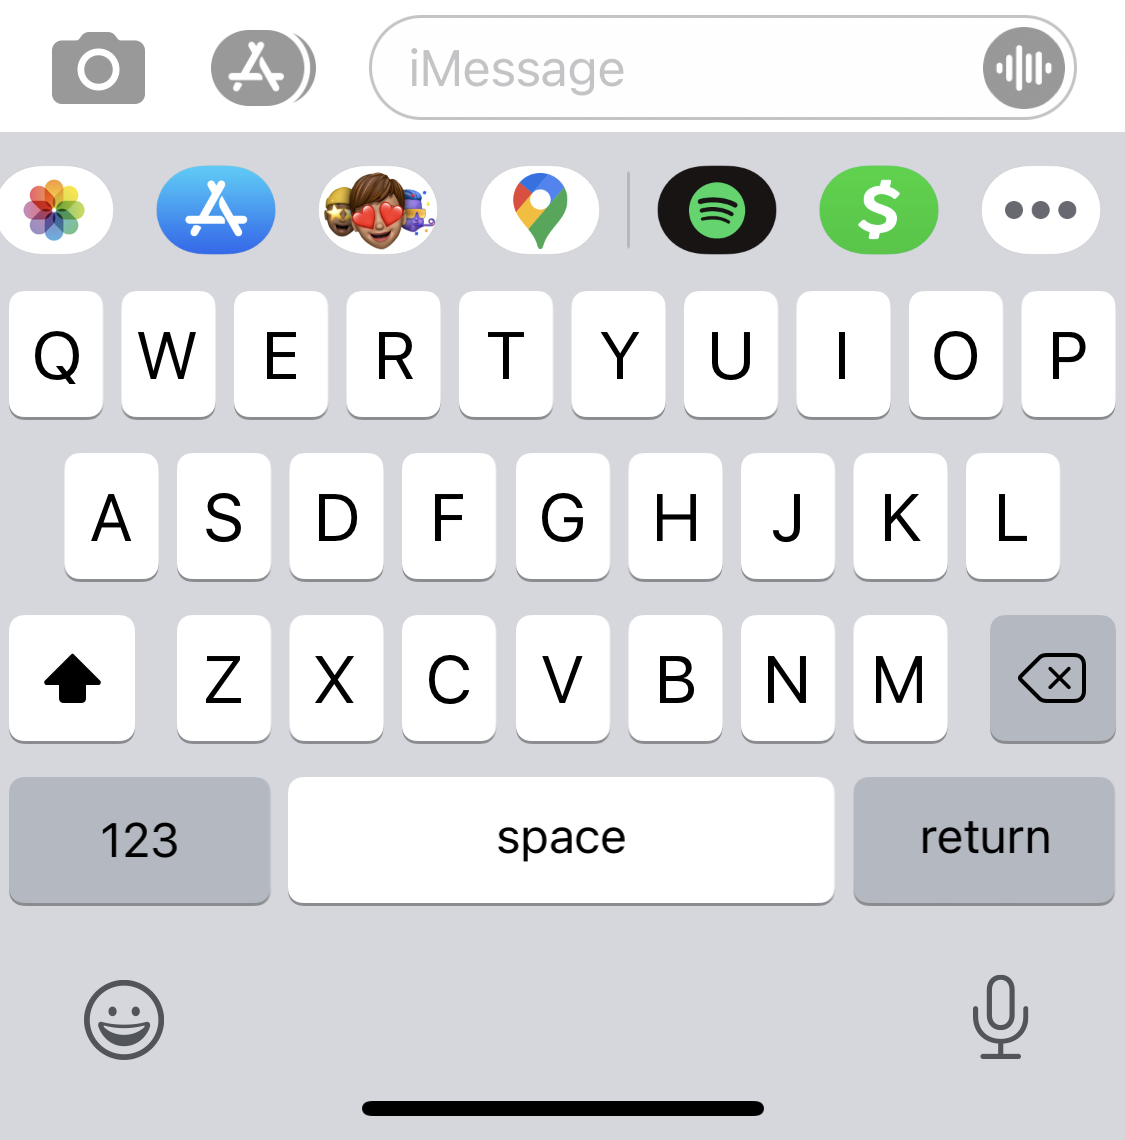
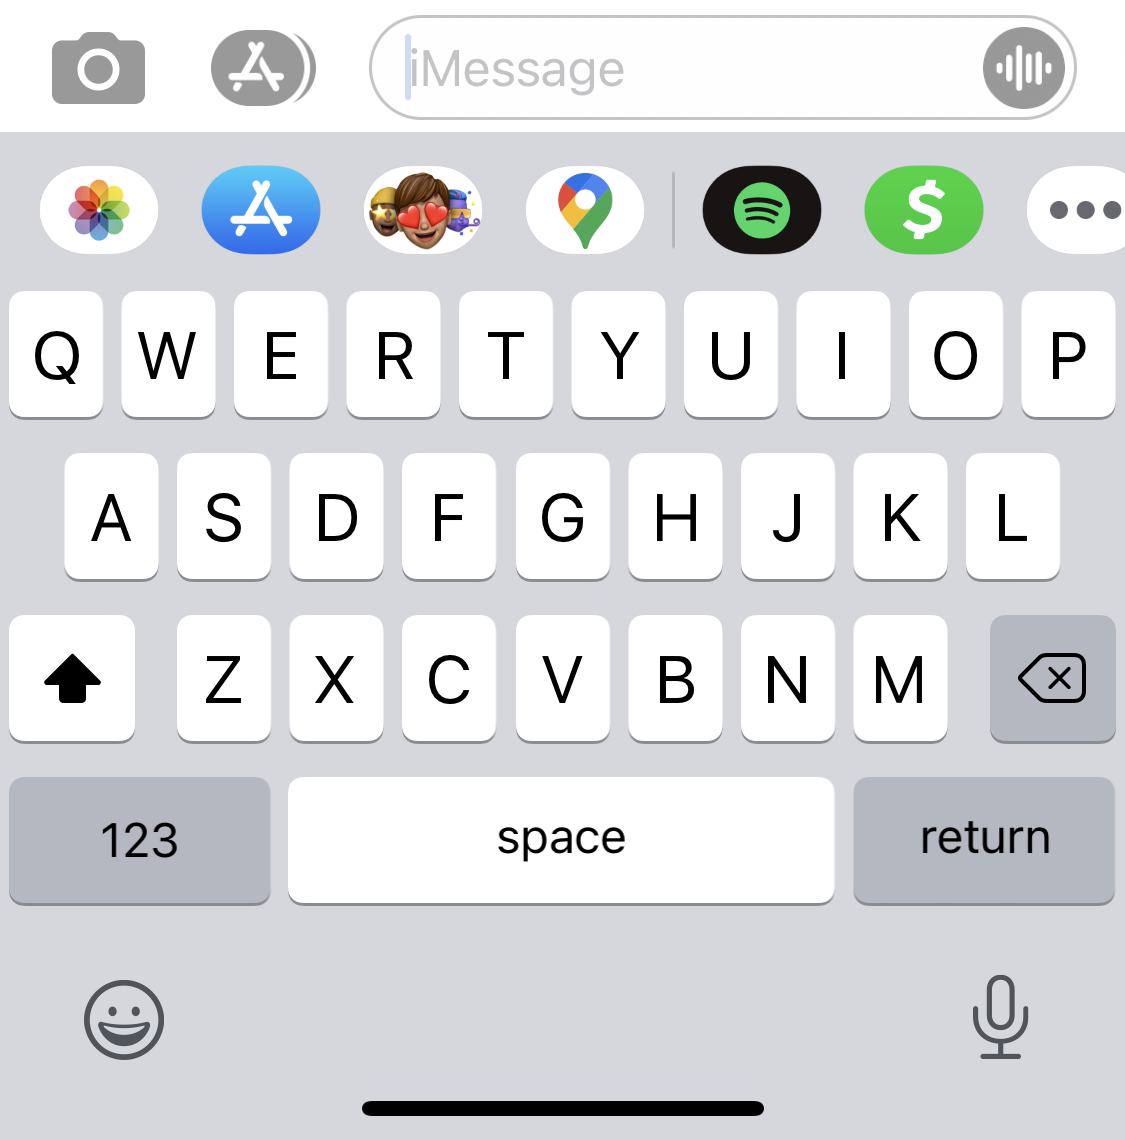
wip typing anim

Changed region(s): [[0.0, 0.1228, 1.0, 0.2456], [0.3422, 0.0307, 0.3733, 0.0921]]

diff --git a/src/Conversation/Conversation.js b/src/Conversation/Conversation.js
@@ -8,8 +8,7 @@ import celebrityQuotes from '../celebrityQuotes'
 
 function Conversation(props) {
 
-  console.log('test')
-  console.log(celebrityQuotes)
+  console.log('component refreshes');
 
   let [voices, setVoices] = useState([]);
   let [convo, setConvo] = useState([]);
@@ -20,13 +19,16 @@ function Conversation(props) {
   let [canClickSend, setCanClickSend] = useState(true);
   let [audioLength, setAudioLength] = useState(2000)
   let [currentSpeaker, setCurrentSpeaker] = useState('donald-trump')
-  let [name, setName] = useState('Hunter')
+  let [name, setName] = useState('Hunter');
+  let [kImg, setKImg] = useState(1);
+  let [randomType, setRandomType] = useState(Math.floor((Math.random() * 100) + 50));
+  let [firstReady, setFirstReady] = useState(false);
 
   let scrollDiv = document.querySelector('#msg-scroll');
 
   // let [time, setTime] = useState(today.getHours() + ":" + today.getMinutes())
 
-  // Speech To Text
+  let keyboardType;
 
 
   useEffect(() => {
@@ -150,11 +152,58 @@ function Conversation(props) {
   }
 
   async function handleMessages() {
+    setFirstReady(false)
     setCanClickSend(false)
+
+    // function typing() {
+    //   if (!firstReady) {
+    //     setTimeout(() => {
+    //       //setRandomType(Math.floor((Math.random() * 100) + 50));
+    //
+    //       typingClick.currentTime = 0;
+    //       //TODO: deleteClick.currentTime = 0
+    //       if (kImg > 27) {
+    //         //TODO: deleteClick.play()
+    //       } else {
+    //         if (kImg % 2 === 0 ) {
+    //           typingClick.play();
+    //           console.log('click: ', kImg, randomType);
+    //         }
+    //       }
+    //       kImg > 37 ? setKImg(1) : setKImg(++kImg);
+    //
+    //     }, 100)
+    //
+    //     typing();
+    //   }
+    // }
+    // typing();
+
+    keyboardType = setInterval(() => {
+
+      typingClick.currentTime = 0;
+      //TODO: deleteClick.currentTime = 0
+      if (kImg > 27) {
+        //TODO: deleteClick.play()
+      } else {
+        if (kImg % 2 === 0 ) {
+          typingClick.play();
+          console.log('click: ', kImg, randomType);
+        }
+      }
+      kImg > 37 ? setKImg(1) : setKImg(++kImg);
+    }, 100);
+
+
     const { firstQuote, secondQuote } = await getQuotes();
     const firstSpeakerAudio = await getAudio(firstQuote, currentSpeaker);
+
+    setFirstReady(true);
     playAudio(firstSpeakerAudio);
     setConvo([...convo, trumpQuotes(firstQuote)]);
+
+    clearInterval(keyboardType);
+    setKImg(1);
 
     const delay = audioLength > 3000 ? audioLength + 1000 : audioLength;
 
@@ -163,8 +212,6 @@ function Conversation(props) {
     }, delay)
     scrollDiv = document.querySelector('#msg-scroll');
     scrollDiv.scrollTop = scrollDiv.scrollHeight;
-
-    //TODO: stop 'typing' animation
 
 
     setTimeout(() => {
@@ -231,7 +278,7 @@ function Conversation(props) {
         <option value="arnold-schwarzenegger">Arnold Schwarzenegger</option>
         <option value="gilbert-gottfried">Gilbert Gottfried</option>
       </select>
-      <img id='keyboard' src='../assets/imgs/k1.jpeg' alt='keyboard' />
+      <img id='keyboard' src={`../assets/imgs/k${kImg}.jpeg`} alt='keyboard' />
     </div>
   )
 }

diff --git a/src/Conversation/Conversation.css b/src/Conversation/Conversation.css
@@ -239,7 +239,7 @@ body {
   align-items: center;
   justify-content: center;
   top: 65px;
-  left: 26px;
+  left: 25px;
   height: 18px;
   width: 32px;
   z-index: 6;
